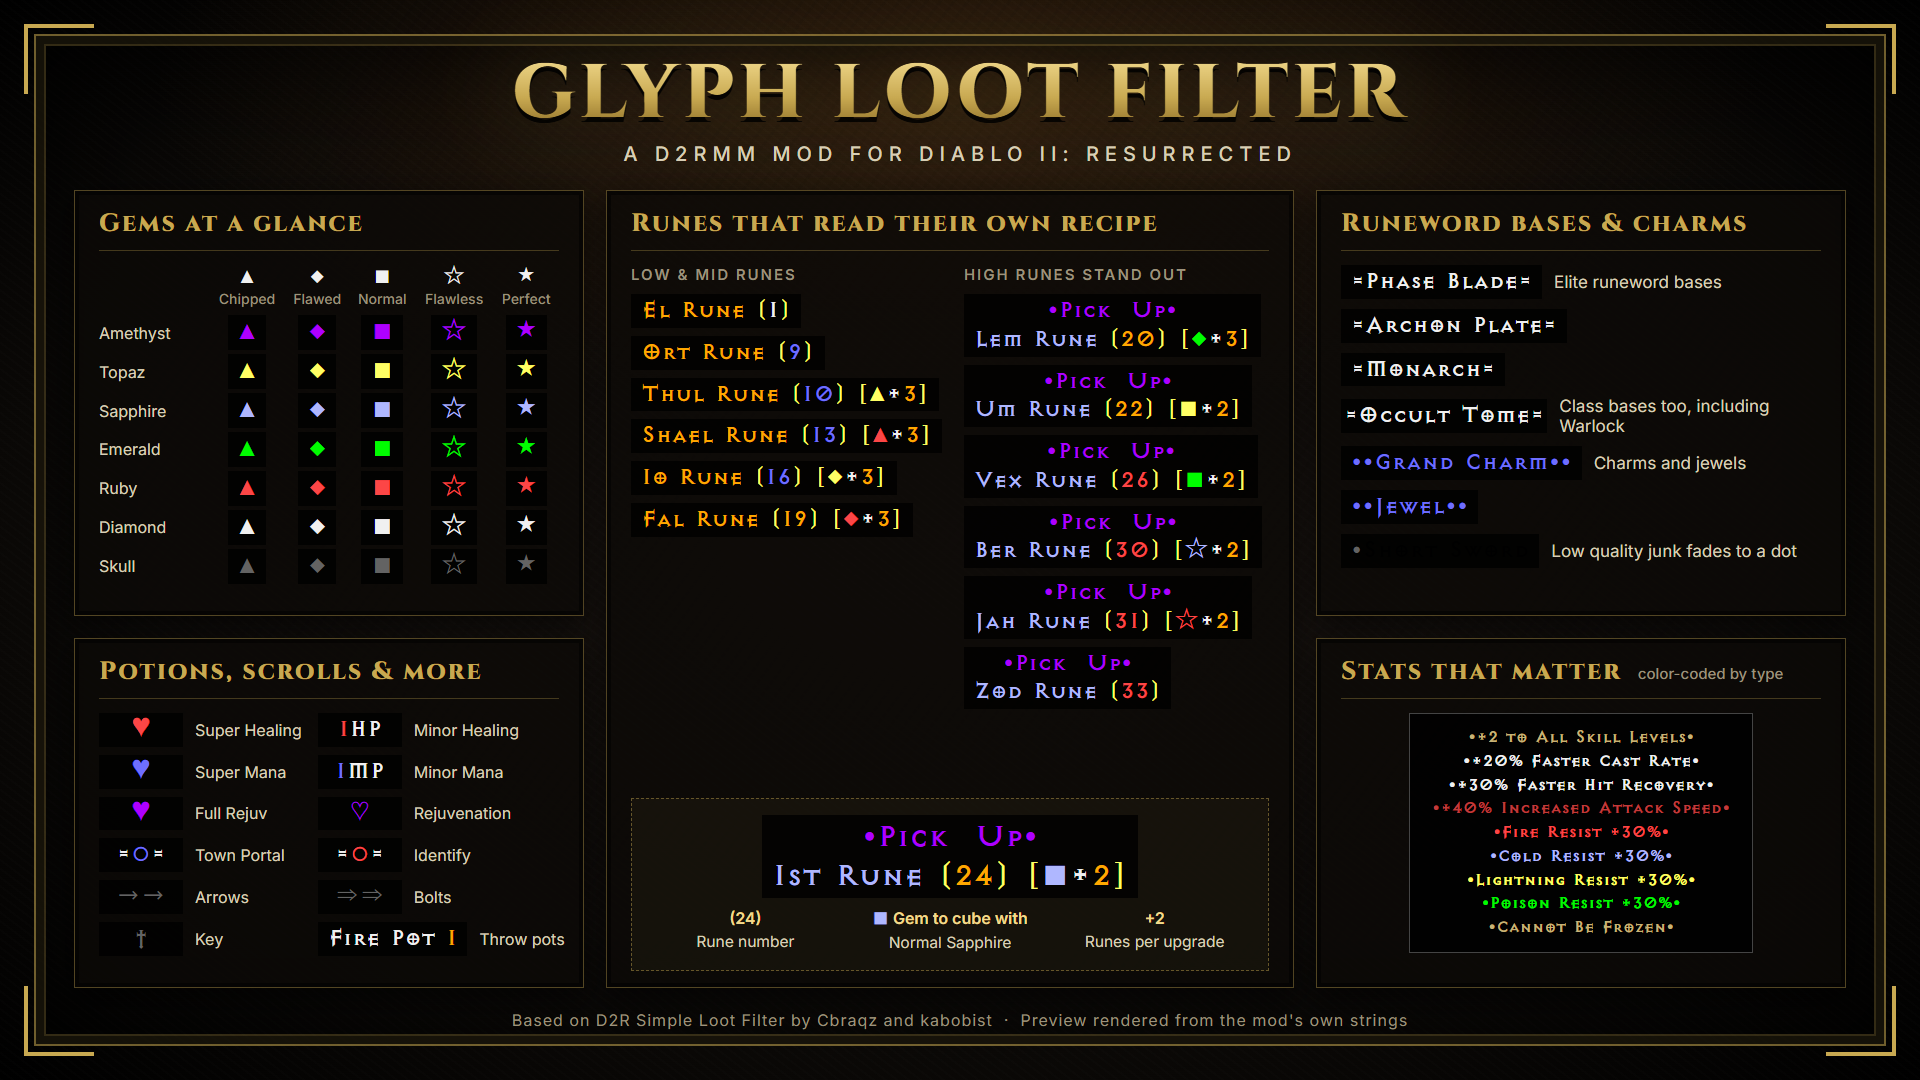
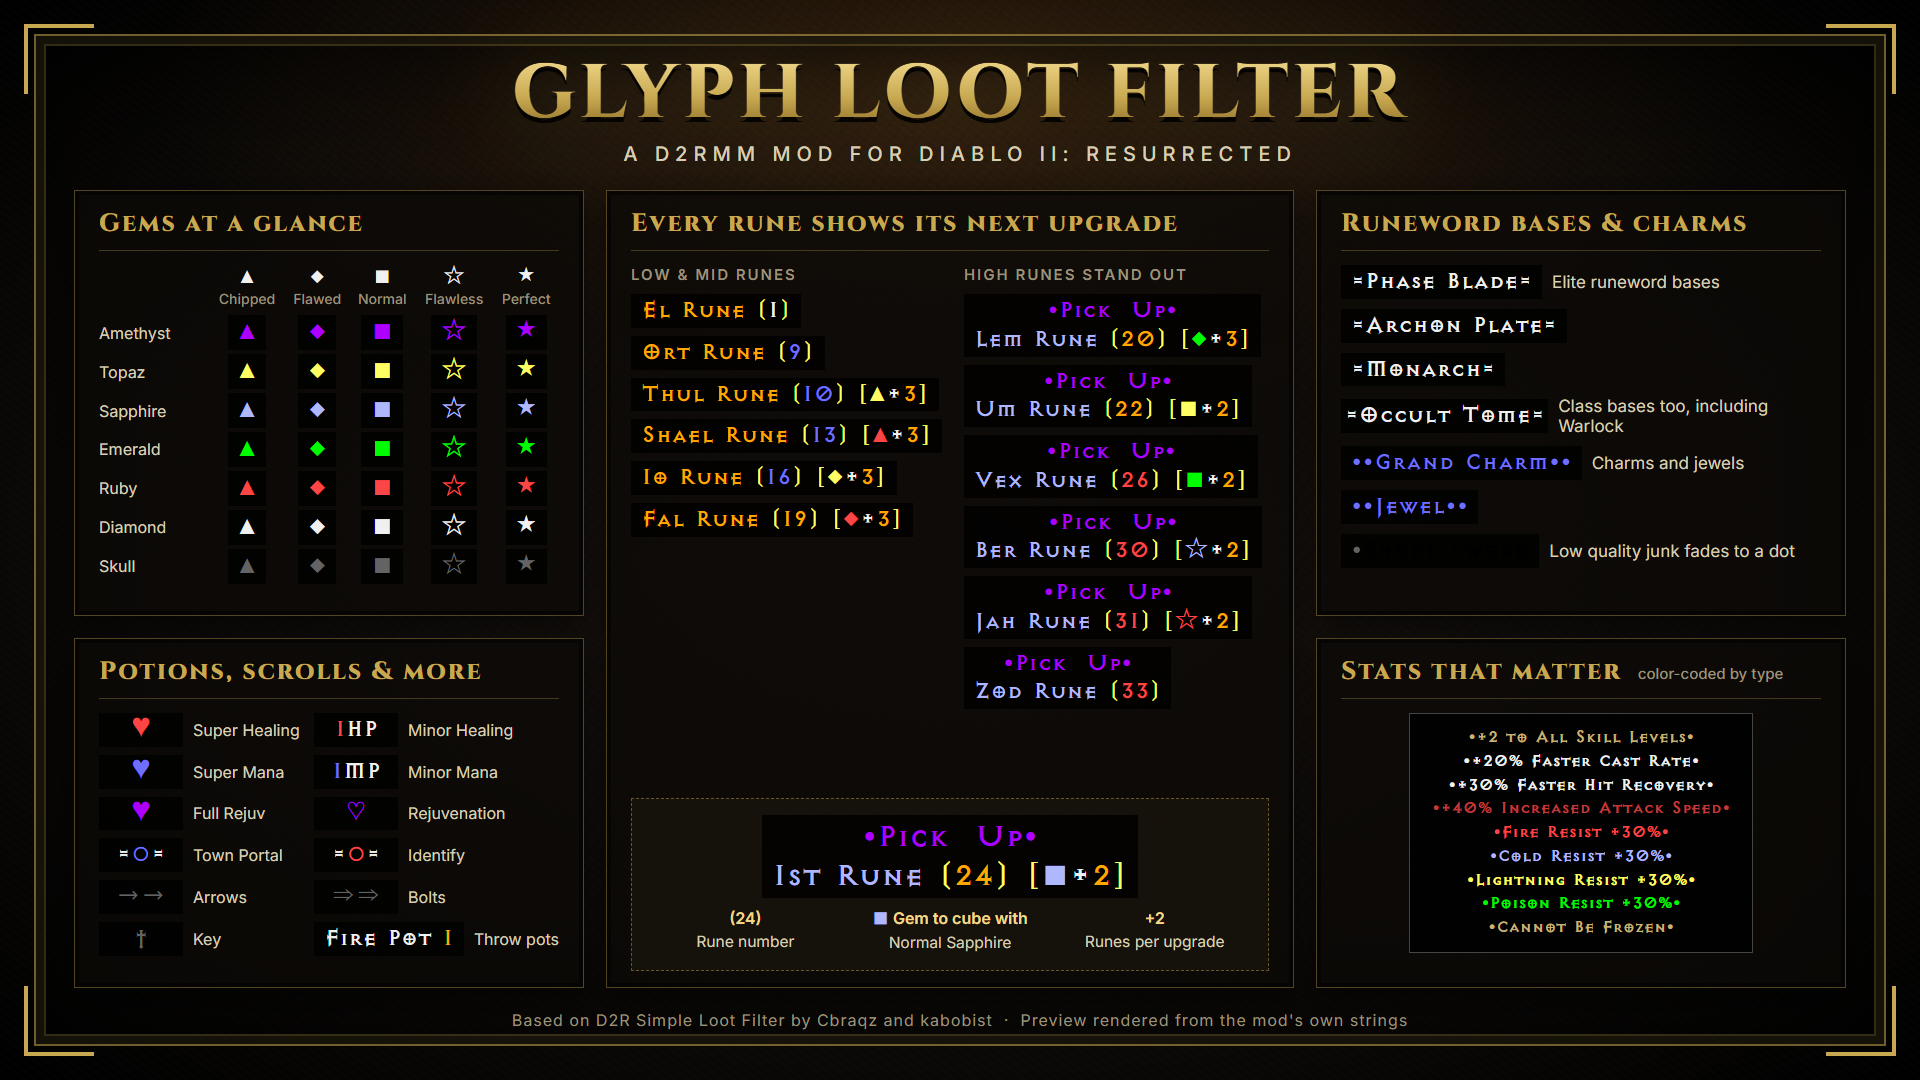
Clarify that rune labels show the recipe for the next rune

diff --git a/docs/banner.html b/docs/banner.html
@@ -90,9 +90,9 @@
   .gems .d2 { font-size: 26px; }
 
   /* Two-column legend lists */
-  .list { display: grid; grid-template-columns: 1fr 1fr; gap: 8px 16px; align-content: start; }
+  .list { display: grid; grid-template-columns: 1fr 1fr; gap: 8px 10px; align-content: start; }
   .list .note { font-size: 16px; white-space: nowrap; }
-  .row { display: flex; align-items: center; gap: 12px; }
+  .row { display: flex; align-items: center; gap: 10px; }
   .row .label { min-width: 84px; }
 
   /* Runes */
@@ -137,7 +137,7 @@
     </section>
 
     <section class="panel runes">
-      <h2>Runes that read their own recipe</h2>
+      <h2>Every rune shows its next upgrade</h2>
       <div class="runecols">
         <div>
           <h3>Low &amp; mid runes</h3>

diff --git a/docs/features.html b/docs/features.html
@@ -128,7 +128,7 @@
   </section>
 
   <section class="scene" id="runes">
-    <h1>Runes show their own cube recipe</h1>
+    <h1>Every rune shows its next upgrade</h1>
     <p class="lede">Every rune from Thul up names the gem and how many runes the Horadric Cube needs to upgrade it.</p>
     <div class="panel" style="padding:28px 22px 24px; gap:26px">
       <div class="eq" id="runeEq"></div>

diff --git a/README.md b/README.md
@@ -1,6 +1,6 @@
 # Glyph Loot Filter
 
-**A [D2RMM](https://github.com/olegbl/d2rmm) loot filter that turns gems, potions and scrolls into colored symbols and writes each rune's cube recipe into its name.**
+**A [D2RMM](https://github.com/olegbl/d2rmm) loot filter that turns gems, potions and scrolls into colored symbols and labels each rune with the cube recipe that upgrades it to the next one.**
 
 Diablo II: Resurrected labels every drop with its full name, so a screen of loot turns
 into a wall of text. This filter shortens the common drops to small colored glyphs
@@ -41,12 +41,12 @@ Every item the filter renames, from the game's own name to what you'll see on th
 
 ![Glyph key: potions, scrolls, throwables, bases, charms, junk and gems](docs/screenshots/key.png)
 
-## Runes that read their own recipe
+## Every rune shows its next upgrade
 
 Every rune from Thul up shows the gem and the number of runes the Horadric Cube needs
 to upgrade it:
 
-![Rune labels showing their cube recipe](docs/screenshots/runes.png)
+![Rune labels showing the cube recipe for the next rune](docs/screenshots/runes.png)
 
 | Label | Meaning |
 |---|---|
